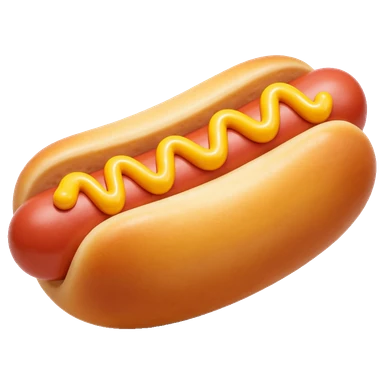
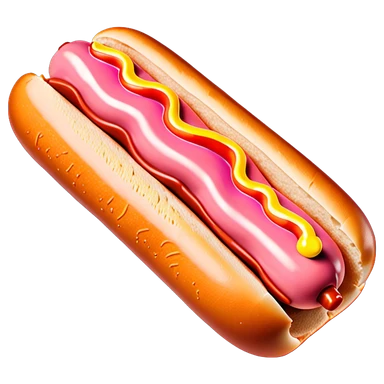
Kitchen: ComfyUI pictures for the Hot Dogs recipe; how to make more
Pictures are now drawn on the local ComfyUI with DreamShaperXL
Turbo-Lightning through scripts/comfy-picture.mjs, which holds the house
prompt and settings (20 steps, CFG 7, dpmpp_2m / karras) and lifts the
picture off its page with BiRefNet. canva-cutout.mjs becomes
picture-cutout.mjs and uses a transparent cutout as it is.

New pictures for the hot dog, the cooking sausage and all eight
ingredients. ARCHITECTURE.md and AGENTS.md describe the new way, with
what worked and a table of the subjects and seeds.

diff --git a/src/ui/KitchenArt.js b/src/ui/KitchenArt.js
@@ -3,7 +3,7 @@ import { art } from './Art';
 import { texture } from '../services/assets';
 
 // An ingredient's picture: src/assets/images/kitchen/food/<ingredient key>
-// (made with Canva, see ARCHITECTURE.md), or its emoji when there is none.
+// (made with ComfyUI, see ARCHITECTURE.md), or its emoji when there is none.
 // A kitchen picture of its own, not the emoji's, because the same emoji
 // means something else elsewhere (🌽 is corn on a pizza, cornflour here).
 export const food = (scene, x, y, ingredient, size) => art(scene, x, y, { key: `kitchen/food/${ingredient.key}`, emoji: ingredient.emoji, size });

diff --git a/ARCHITECTURE.md b/ARCHITECTURE.md
@@ -59,43 +59,52 @@ Feedback animations live in `ui/Juice.js`, so every game feels the same: `celebr
 
 ---
 
-## Make a picture with Canva
+## Make a picture with ComfyUI
 
-New pictures are made with the **Canva connector** (`generate-image`), so they match the game's Microsoft Fluent 3D emoji. PixelLab was tried and is not used: it only makes pixel art, which looks wrong next to the 3D emoji. Every agent making a picture follows these steps and uses the prompt below, so the pictures stay one family.
+New pictures are made on this PC's **ComfyUI** (`http://127.0.0.1:8188`, workspace `D:\AI\ComfyUI`) with the **DreamShaperXL Turbo-Lightning** model (`DreamShaperXL_Turbo-Lightning.safetensors`). They are drawn as 3D cartoon objects, glossy and simple, so they sit next to the game's Microsoft Fluent 3D emoji. **BiRefNet** (the `comfyui-rmbg` node pack, model `BiRefNet_toonout`) lifts each one off its page. Every agent making a picture uses `scripts/comfy-picture.mjs`, which holds the prompt and the settings, so the pictures stay one family. Canva (used up to November 2026) and PixelLab (pixel art only) are not used any more.
 
-**1. The prompt.** One subject, written as the game uses it (cornflour is a bag of white powder, not an ear of corn). Fill in `<subject>` twice, and change nothing else:
+**1. Draw it.** ComfyUI must be running (start it with the comfy-mcp `launch_comfyui` tool, or `comfy launch --background`).
 
+```bash
+node scripts/comfy-picture.mjs <image key> "<subject>" [--seed N] [--page-only]
 ```
-<Subject>. Microsoft Fluent 3D emoji style: a single <subject>, centred, soft glossy 3D cartoon render, smooth gradients, soft studio lighting, no outlines, no text, on a plain white background.
-```
 
-- Aspect ratio `SQUARE_1_1`.
-- Bottles, jars and packets: add "no label" after the subject. Generated letters come out as nonsense.
-- Look at the result before using it. Regenerate one that doesn't read as its subject at 56 px (a first raw chicken breast came out as a pink blob).
-- Each picture uses some of the Canva account's monthly AI limit. When it runs out, Canva answers `quota_exceeded`: stop and tell the user which pictures are left.
+- `<subject>` is one thing, written as the game uses it (cornflour is a sack of white powder, not an ear of corn). The script puts it into the house prompt; don't change the prompt for one picture.
+- The script sends ComfyUI its own workflow (no template), so these two prompts are all the model is told. `(word:1.4)` gives a word more weight.
+  - Prompt: `(3D cartoon game icon:1.4) of a single <subject>, (inanimate food object:1.3), (stylized toy:1.2), simple rounded shapes, smooth glossy flat colours, minimal texture, bright saturated colours, flat even lighting, floating, centred, (pure white background:1.3)`
+  - Negative prompt: `(face, eyes, mouth, smile, character, mascot, animal, bird:1.6), (photo, realistic, photorealistic:1.5), detailed texture, (shadow, drop shadow, cast shadow, floor, ground, reflection:1.4), text, label, letters, logo, watermark`
+  - Settings: 1024 × 1024, 20 steps, CFG 7, `dpmpp_2m` / `karras`. To compare, the script takes `--steps`, `--cfg`, `--sampler`, `--scheduler`, `--model`, `--prompt`/`--negative` and `--tag` (added to the saved names); `--shape <png> --denoise N` repaints a simple drawing instead of starting from noise. Keep the house settings for game pictures.
+- The model draws real-looking objects unless told "cartoon", and "cartoon" makes it give some foods a face (an onion, most often). Draw four seeds and keep one without a face. Writing "no face" or "no eyes" in the prompt draws one.
+- Leave "chicken" out of a food's subject: it draws the bird. "Slice of raw pink poultry meat fillet (lying flat:1.2)" works.
+- An egg comes out cracked, halved or with a face; "(whole closed egg:1.4), plain light brown oval, standing upright" gives an egg in an egg cup, which reads well.
+- A bag or sack of white powder fills with sweets (the prompt's bright colours); "(heap of white flour:1.4) in a small wooden scoop" gives flour in a wooden bowl.
+- "Flat even lighting" and "floating" keep the shadow faint; BiRefNet removes what's left.
+- Bottles, jars and packets: describe a plain container ("plain red plastic squeeze bottle, blank smooth bottle") and leave the product's name out. With "no label" or the product's name, the model prints a label with nonsense letters.
+- About 20 seconds a picture on the RTX 4060, and free, so draw a few seeds (`--seed 1` to `4` with `--page-only`) and keep the one that reads best at 56 px.
+- Each try is saved in `.comfy-pages/` (not committed): `<key>.seed<N>.png` (the page) and `<key>.seed<N>.cut.png` (BiRefNet's transparent cutout).
 
-**2. Full size.** `generate-image` only shows a 200 px preview, and its signed links can't be resized. Export the picture through the export frame instead. The frame is a 1080 × 1080 Canva design, "KidsMathApp picture export frame" (`DAHbTTUB81E`): one image element filling a white page.
-- Open it with `read-design` (`open_transaction: true`).
-- `edit-design`: `update_fill` the element `PB9z7wJVl0r1tykS-LB66zjjLWgfds5kr` with the new picture's media id, then `commit`.
-- `export-design` as PNG, 1024 × 1024, and download the URL with `curl`.
-- Don't use `create-design` for this: it uses the AI limit, and its layout crops the subject.
-- Canva's background remover (`remove-background`) needs a paid Canva plan. Step 3 does that job instead.
-- The environment's network must allow `www.canva.com`, `media.canva.com` and `export-download.canva.com`.
-
-**3. Into the game.** `node scripts/canva-cutout.mjs <exported.png> <image key>`. It makes the white page and the soft grey shadow transparent, trims the margins, and saves a 384 px WebP (about 15 KB) at `src/assets/images/<key>.webp`.
-- For a pale subject (garlic, an egg, flour), add `--pale`. Otherwise its light edge is eaten as background.
+**2. Into the game.** Without `--page-only`, the script finishes with `node scripts/picture-cutout.mjs <cutout> <image key>`. Run that yourself on the try you picked. It trims the margins and saves a 384 px WebP (about 25 KB) at `src/assets/images/<key>.webp`.
 - Every picture loads when the game starts, so keep the 384 px size.
+- One file per key: when a WebP replaces an SVG or PNG of the same key, delete the old file.
 - Check the result on a dark and on a wooden background before committing. Scraps of shadow and a nibbled edge show up there.
+- `picture-cutout.mjs` can still cut a picture off a plain white page itself (`--pale` for a light subject), for a page made without BiRefNet.
 
 **Which key.** `emoji/<code points>` replaces that emoji everywhere in the game, and the emoji may mean something else in another game. A Kitchen Cove ingredient therefore uses `kitchen/food/<ingredient key>` instead (`food()` in `ui/KitchenArt.js`), with its emoji as the fallback. For example, 🌽 is the corn topping on a pizza but cornflour in the kitchen.
 
 **Made so far** (add a line for each new picture):
 
-| Key | Subject in the prompt | Canva media id |
+| Key | Subject in the prompt | Seed |
 |---|---|---|
-| `emoji/1f32d` (🌭) | a hot dog | `MAHbTEAQ9eY` |
-| `kitchen/food/onion` | a whole brown onion | `MAHbVDu5iPk` |
-| `kitchen/food/garlic` (`--pale`) | an unpeeled garlic clove | `MAHbVBQp9SU` |
+| `emoji/1f32d` (🌭) | hot dog: a pink sausage in a long soft bread bun with a wavy line of ketchup | 1 |
+| `kitchen/sausage` | plain cooked pink sausage | 3 |
+| `kitchen/food/onion` | whole brown onion | 2 |
+| `kitchen/food/garlic` | whole white garlic bulb | 3 |
+| `kitchen/food/chicken` | slice of raw pink poultry meat fillet (lying flat:1.2) | 3 |
+| `kitchen/food/ketchup` | red squeeze bottle of tomato sauce, plain blank red plastic body, white cap | 2 |
+| `kitchen/food/egg` | (whole closed egg:1.4), plain light brown oval, standing upright | 2 |
+| `kitchen/food/cornflour` | (heap of white flour:1.4) in a small wooden scoop, matte white powder | 4 |
+| `kitchen/food/soySauce` | small glass bottle of dark brown sauce with a red cap, plain blank glass | 3 |
+| `kitchen/food/oil` | tall glass bottle of golden yellow cooking oil, plain blank glass | 4 |
 
 ---
 

diff --git a/AGENTS.md b/AGENTS.md
@@ -12,7 +12,7 @@ Before writing Phaser code, read the guides that ship with the installed version
 - Plan and phases: `PHASER_PLAN.md`. The research and design rules are in `PLAN.md`. **How to change things (assets, languages, voice, scenes, skills): `ARCHITECTURE.md`. Follow it.**
 - No words in code: UI text through `t()` (`src/i18n/en/<feature>.json`); question words in content packs (`src/content/en/<pack>.js`).
 - No emoji drawn directly: use `art()` / `glyph()` from `src/ui/Art.js`.
-- New pictures are made with the Canva connector, always with the prompt and steps in `ARCHITECTURE.md` "Make a picture with Canva" (the same prompt, the export frame, then `scripts/canva-cutout.mjs`), and logged in its table. Don't use another image generator or your own prompt wording.
+- New pictures are made with the local ComfyUI and its DreamShaperXL Turbo-Lightning model, always with `scripts/comfy-picture.mjs` and the steps in `ARCHITECTURE.md` "Make a picture with ComfyUI" (the script holds the house prompt and settings, and cuts the picture out), and logged in its table. Don't use another image generator, another model or your own prompt wording.
 - Never add things to a shared list: scenes, languages, packs, pictures, sounds and recordings are found by folder.
 - Game rules live in `src/curriculum/` and `src/logic/` and must stay free of Phaser, so `npm test` covers them.
 - Scenes extend `src/ui/BaseScene.js`: lay out in the 1280 x 720 safe area, and pin edges to `this.view` in `layout()`.
